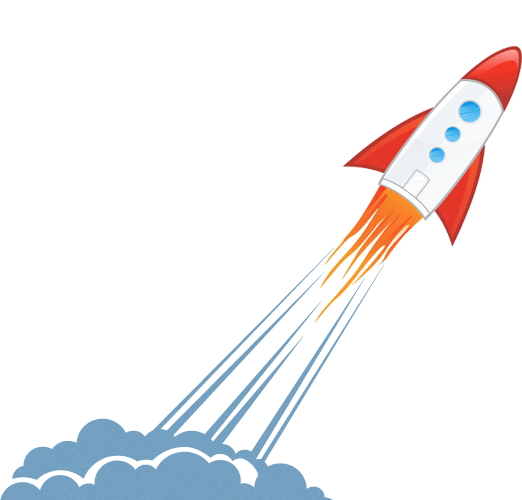
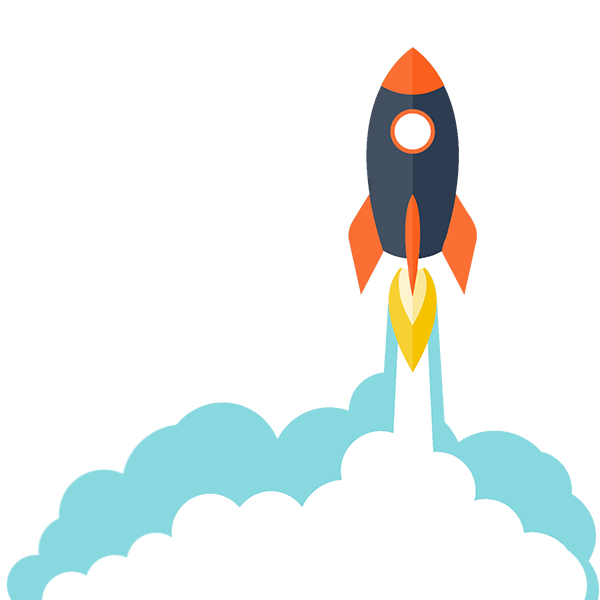
update homepage rocket!

Changed region(s): [[0.0, 0.06, 1.0, 1.0], [0.8276, 0.18, 0.8582, 0.21]]

diff --git a/public_html/static/css/style.css b/public_html/static/css/style.css
@@ -7,11 +7,16 @@ body{width:100%;height:100%;background-color:#A7CBE5;overflow:hidden;}
 .bg-2{background: url('/static/images/launch/stars000.png') 0 0;}
 .bg-3{ background: url('/static/images/launch/stars-fr.png') 0 0;}
 h1,h2,abbr,a{height:0.01%;line-height:0px;overflow:hidden;font-size:0;color:transparent;text-transform:capitalize;}
-#txtsoon{width:200px;height:100px;margin:0 auto;position:absolute;top:50%;right:15%;background:url('/static/images/launch/text.png') no-repeat;}
-#mixa{width:240px;height:240px;position:absolute;bottom:10%;left:5%;border:0;}
-#rocket{max-width:100%;width:100%;height:454px;margin:0 auto;position:absolute;bottom:9%;right:0%;background:url('/static/images/launch/rocket.png') no-repeat;}
-#land{position:absolute;bottom:0%;height:10%;width:100%;background:url('/static/images/launch/land.jpg')}
+#txtsoon{width:200px;height:100px;margin:0 auto;position:absolute;bottom:30%;left:5%;background:url('/static/images/launch/text.png') no-repeat;}
+#ermile{max-width:400px;max-height:80vh;position:absolute;bottom:12%;right:5%;border:0;z-index:0;}
+#rocket{width:100%;max-height:600px;height:90vh;margin:0 auto;position:absolute;bottom:0%;left:0%;background:url('/static/images/launch/rocket.png') no-repeat;}
+#land{position:absolute;bottom:0%;height:2%;width:100%;background-color:#fff}
 
 @media (max-width: 600px){
-  #txtsoon{right:1%;top:10%;}
+  #txtsoon{display:none}
+}
+
+@media screen and (max-width: 900px){
+	#rocket{display: none;}
+
 }

diff --git a/content/home/display.html b/content/home/display.html
@@ -10,7 +10,7 @@
   <header ><h1>{{site.title}}</h1><h2>{{site.desc}}</h2></header>
   <abbr id='txtsoon' title='{%trans "Comming Soon"%}'>{%trans "Comming Soon"%}. {%trans "Powered by Saloos"%}</abbr>
   <footer>
-   <div id='mixa'><a target="_blank" href="http://ermile.com" ><img src="{{url.static}}images/launch/logo.png" alt="{{site.title}}" />{{site.slogan}}</a></div>
+   <a target="_blank" href="http://ermile.com"><img id='ermile'src="{{url.static}}images/logo.png" alt="{{site.title}}" />{{site.slogan}}</a>
    <div id='rocket'></div>
    <div id='land'></div>
   </footer>
